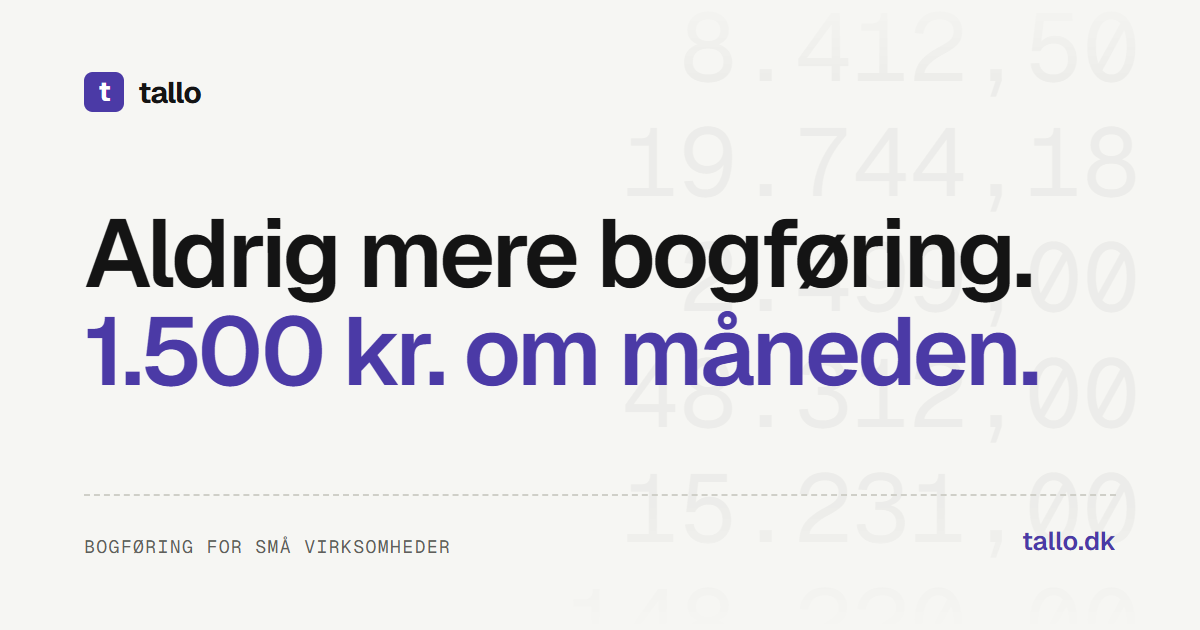
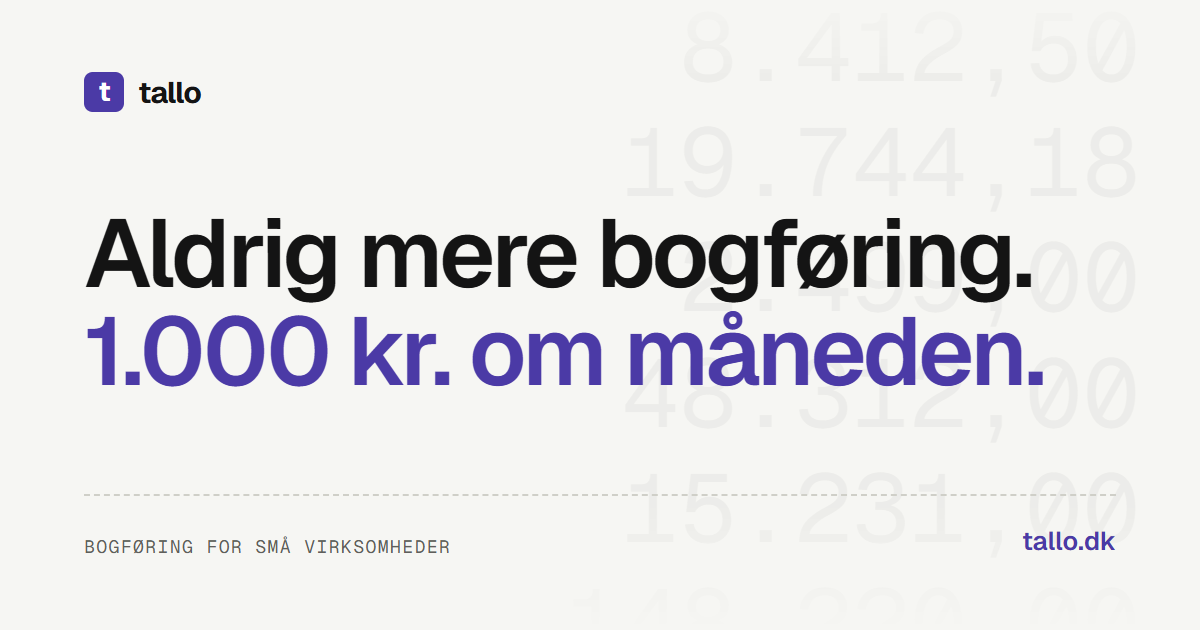
Ny pris: 1.000 kr. om måneden med regnskabsprogrammet inkluderet

Changed region(s): [[0.1233, 0.4825, 0.8633, 0.6333]]

diff --git a/index.html b/index.html
@@ -8,11 +8,11 @@
 <title>Tallo: aldrig mere bogføring</title>
 <style>@font-face{font-family:"Geist";src:url("fonts/geist.woff2") format("woff2");font-weight:100 900;font-display:swap}@font-face{font-family:"Geist Mono";src:url("fonts/geist-mono.woff2") format("woff2");font-weight:100 900;font-display:swap}</style>
 <meta name="robots" content="noindex, nofollow">
-<meta name="description" content="Dine regninger og fakturaer kommer ind af sig selv. Vi bogfører dem, indberetter momsen og laver årsregnskabet. 1.500 kr. om måneden for små virksomheder.">
+<meta name="description" content="Dine regninger og fakturaer kommer ind af sig selv. Vi bogfører dem, indberetter momsen og laver årsregnskabet. 1.000 kr. om måneden for små virksomheder, regnskabsprogram inkluderet.">
 <link rel="icon" type="image/svg+xml" href="favicon.svg">
 <meta property="og:type" content="website">
 <meta property="og:title" content="Tallo: aldrig mere bogføring">
-<meta property="og:description" content="Dine regninger og fakturaer kommer ind af sig selv. Vi bogfører dem, indberetter momsen og laver årsregnskabet. 1.500 kr. om måneden.">
+<meta property="og:description" content="Dine regninger og fakturaer kommer ind af sig selv. Vi bogfører dem, indberetter momsen og laver årsregnskabet. 1.000 kr. om måneden.">
 <meta property="og:image" content="https://tallo.dk/og.png">
 <meta property="og:image:width" content="1200">
 <meta property="og:image:height" content="630">
@@ -345,7 +345,7 @@
 <header class="hero">
   <div class="skal">
     <div class="tekst">
-      <h1>Aldrig mere bogføring.<br><em>1.500 kr. om måneden.</em></h1>
+      <h1>Aldrig mere bogføring.<br><em>1.000 kr. om måneden.</em></h1>
       <p class="manchet">Dine regninger og fakturaer kommer ind af sig selv. Vi bogfører dem, indberetter momsen og viser dig hver måned, hvad du har i overskud. Ubegrænset antal fakturaer.</p>
       <div class="handling">
         <a class="knap" href="#book" data-book>Bliv fri for bogføring <span class="pil">→</span></a>
@@ -431,7 +431,7 @@
 </section>
 
 <section class="afsnit tal-flade" id="pris">
-  <div class="tal-bag kort" aria-hidden="true">1.500,00
+  <div class="tal-bag kort" aria-hidden="true">1.000,00
 15.231,00
 250,00
 4.000,00
@@ -450,17 +450,18 @@
           <li>Momsen indberettet til tiden</li>
           <li>Salg, udgifter og overskud hver måned</li>
           <li>Årsregnskab og selvangivelse</li>
+          <li>Regnskabsprogrammet er med</li>
         </ul>
         <div class="tilkoeb">
           <span class="mono">Tilkøb</span>
           <div class="l"><span>Løn, lønsystemet er med</span><span>250 kr. om måneden + 50 kr. pr. lønseddel</span></div>
           <div class="l"><span>Årsrapport, hvis du har ApS</span><span>4.000 kr. om året</span></div>
         </div>
-        <p class="med">Alle priser er plus moms. Regnskabsprogrammet betaler du selv.</p>
+        <p class="med">Alle priser er plus moms. Regnskabsprogrammet er med i prisen.</p>
       </div>
       <div class="pris-kort prisen rejs">
         <span class="mono">Prisen</span>
-        <div class="beloeb"><span class="tal" data-til="1500">1.500</span> kr.</div>
+        <div class="beloeb"><span class="tal" data-til="1000">1.000</span> kr.</div>
         <p class="beloeb-under">om måneden plus moms</p>
         <p class="fast"><b class="streg-under">Fast pris.</b> Ingen binding.</p>
         <a class="knap" href="#book" data-book>Bliv fri for bogføring <span class="pil">→</span></a>
@@ -742,7 +743,7 @@
   /* 04: prisen taeller op */
   const pris = document.querySelector(".beloeb [data-til]");
   pris.textContent = "0";
-  ScrollTrigger.create({ trigger: pris, start: "top 80%", once: true, onEnter: () => taelOp(pris, 1500, 0.6) });
+  ScrollTrigger.create({ trigger: pris, start: "top 80%", once: true, onEnter: () => taelOp(pris, 1000, 0.6) });
 
   /* Footer: ordet stiger op */
   gsap.from(".kaempe", { yPercent: 35, ease: "none", scrollTrigger: { trigger: "footer", start: "top bottom", end: "bottom bottom", scrub: true } });

diff --git a/vaerktoej/og.html b/vaerktoej/og.html
@@ -28,7 +28,7 @@
 31.640,00</div>
   <div class="indhold">
     <div class="logo"><svg viewBox="0 0 64 64"><rect width="64" height="64" rx="14" fill="#4b3aa6"/><text x="32" y="47" text-anchor="middle" font-family="Geist, Arial, sans-serif" font-weight="700" font-size="44" fill="#ffffff">t</text></svg>tallo</div>
-    <h1>Aldrig mere bogføring.<br><em>1.500 kr. om måneden.</em></h1>
+    <h1>Aldrig mere bogføring.<br><em>1.000 kr. om måneden.</em></h1>
     <div class="bund"><span class="mono">Bogføring for små virksomheder</span><span><b>tallo.dk</b></span></div>
   </div>
 </body>
